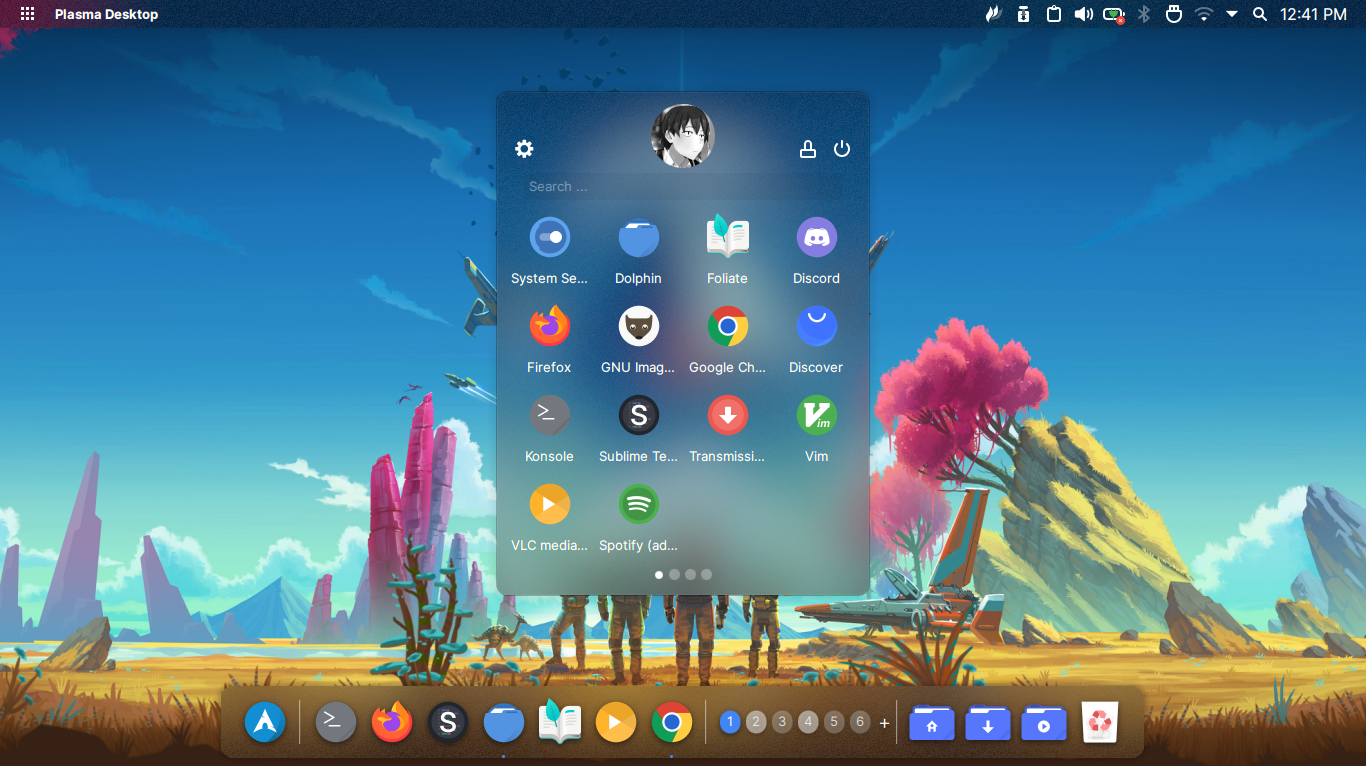
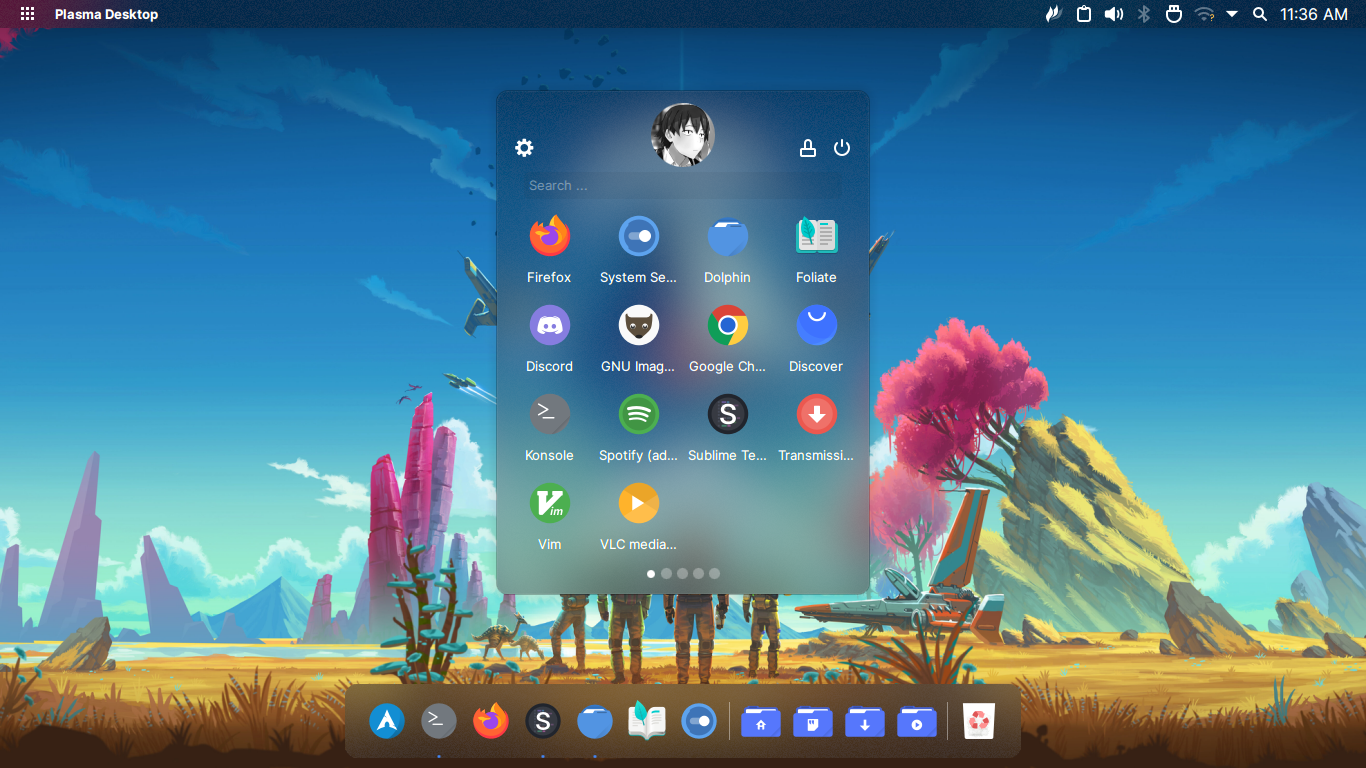
Update

diff --git a/README.md b/README.md
@@ -11,14 +11,14 @@ A mini dotfiles repository that will remind me my KDE Plasma workflow
 + `Window Decorations`: Sierra Breeze Enhanced
 + `Colors`: WhiteSurDark
 + `System Fonts`: Inter and Roboto
-+ `Icon theme`: Tela Circle blue dark
++ `Icon theme`: Tela Circle blue dark, Papirus
 + `Cursor theme`: Vimix
 + `Wallpaper`: [No Man's Sky : NEXT 8k Ultrawide](https://wall.alphacoders.com/big.php?i=921802)
 + `Lockscreen`: [Subnautica](https://wall.alphacoders.com/big.php?i=988615)
 + `Login Screen`: SDDM
 	- `Theme`: Breeze
 	- `Background`: [The Legend of Zelda: Breath of the Wild](https://wall.alphacoders.com/big.php?i=805656)
-+ `Splash Screen`: ArchSpace
++ `Splash Screen`: Breeze
 + `Widgets`
 	- Top Panel
 		- Kpple Menu
@@ -29,7 +29,6 @@ A mini dotfiles repository that will remind me my KDE Plasma workflow
 		- Latte Spacers
 	- Latte Dock
 		- Ditto Menu
-		- Virtual Desktop Bar
 		- Latte Separators
 		- Folder Views
 		- Trash
@@ -39,11 +38,13 @@ A mini dotfiles repository that will remind me my KDE Plasma workflow
 + `KWin Scripts`
 	- `Force Blur`: Force-enable Blur effect for certain windows
 + `Virtual Desktops`
-	- Terminals
+	- Terminal Emulators
 	- Internet
-	- Editors
+	- Text Editors
 	- File Managers
-	- Media
+	- Medias
+	- Games and Emulators
+	- Graphics
 	- Workspace
 
 ## TODO:
